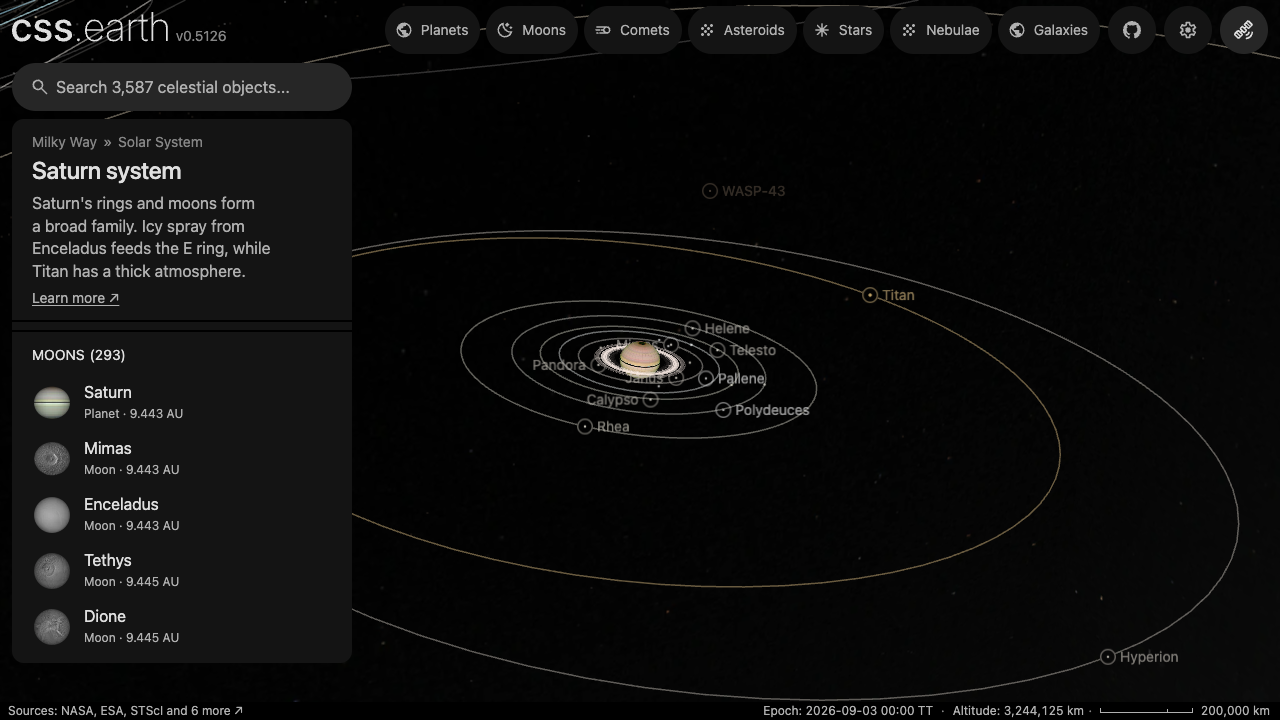
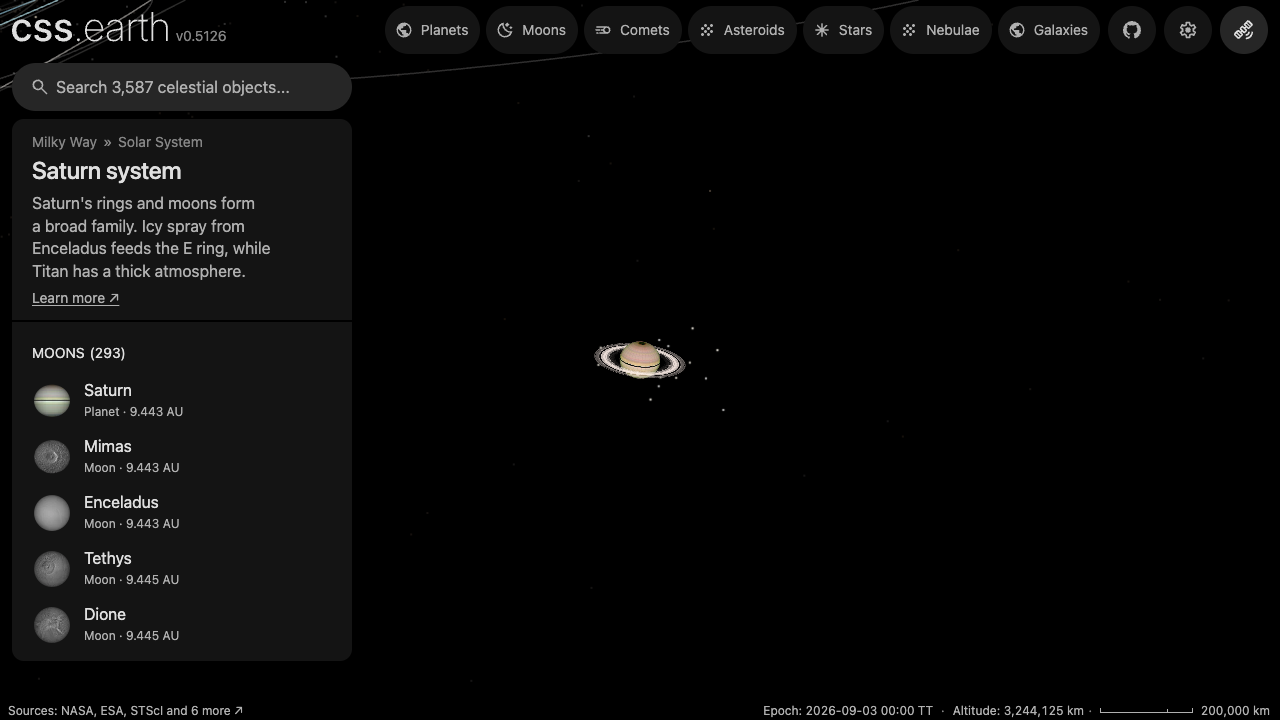
fix(ui): keep a single system card separator

diff --git a/site/shell/maps-shell.css b/site/shell/maps-shell.css
@@ -365,10 +365,7 @@
   row-gap: 2px;
   padding: 0 var(--explorer-card-padding-inline-end) 0 var(--explorer-card-padding-inline-start);
 }
-.object-card-tabs[data-satellite-system] {
-  border-top: var(--explorer-divider-width) solid var(--explorer-divider);
-  padding-top: 8px;
-}
+.object-card-tabs[data-satellite-system] { padding-top: 8px; }
 .object-tabs {
   min-width: 0;
   overflow-x: auto;
